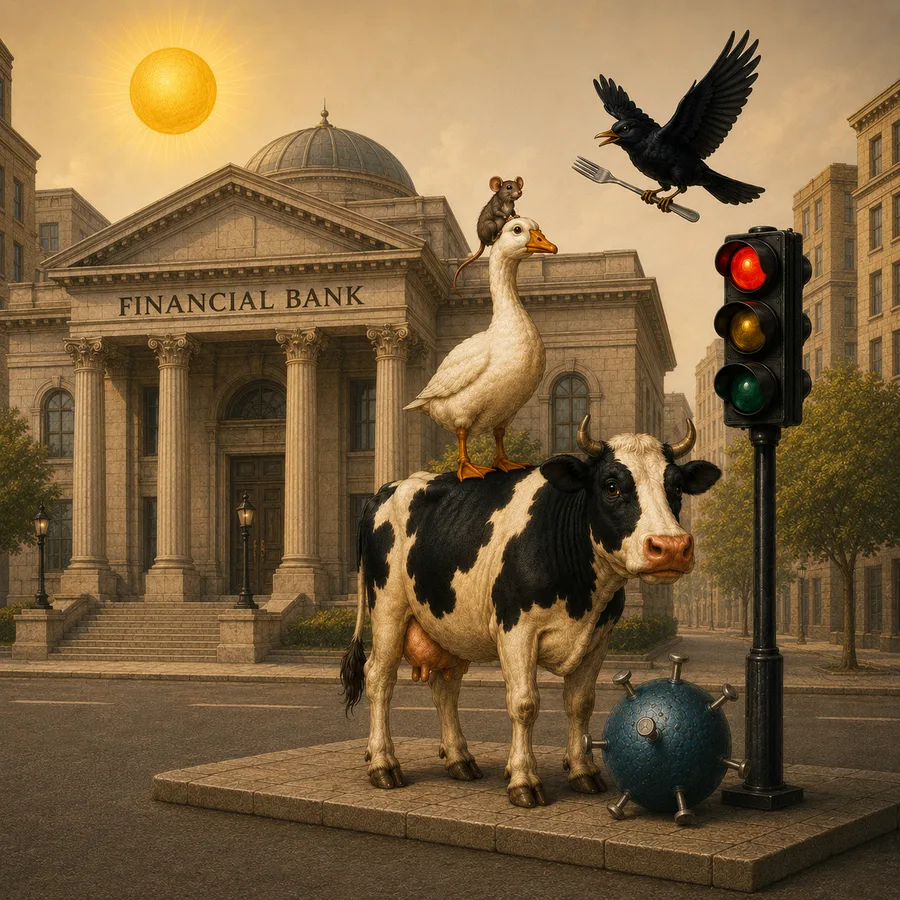
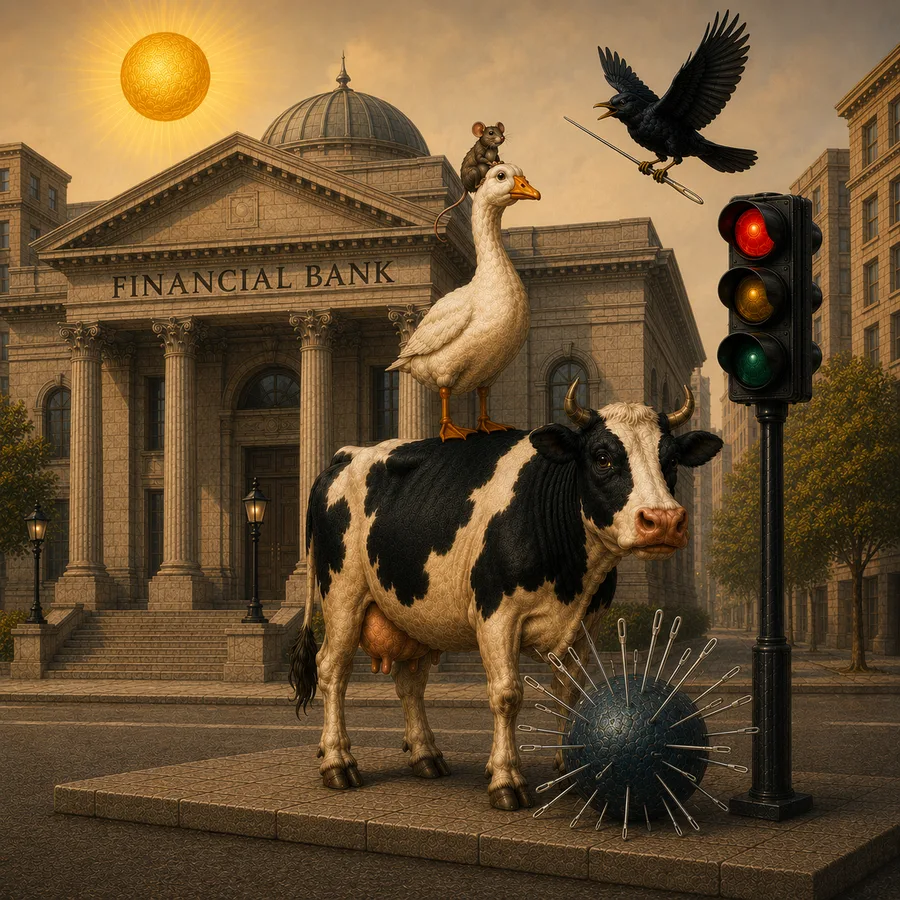
Ampel scene: drop das Geld from narrative, refresh image
Geld is a das word leaking into the all-die scene, so remove 'voller
Geld' — the financial meaning stays via the word gloss and the bank in
the image. Refresh the scene image to the latest master.

diff --git a/src/data/scenes.ts b/src/data/scenes.ts
@@ -397,9 +397,9 @@ export const MEMORY_SCENES: MemoryScene[] = [
     title: "An der Ampel",
     image: "/scenes/die-6-ampel.webp",
     narrativeDe:
-      "An der Ampel wartet eine Kuh. Die Ampel steht an einer Straße. Eine Gans sitzt auf der Kuh, und eine Maus sitzt auf der Gans. Hoch oben fliegt eine Amsel mit einer Gabel. Neben der Kuh liegt eine Kugel, gespickt mit vielen Nadeln, und die Sonne scheint. Am Rand der Straße steht eine Bank voller Geld.",
+      "An der Ampel wartet eine Kuh. Die Ampel steht an einer Straße. Eine Gans sitzt auf der Kuh, und eine Maus sitzt auf der Gans. Hoch oben fliegt eine Amsel mit einer Gabel. Neben der Kuh liegt eine Kugel, gespickt mit vielen Nadeln, und die Sonne scheint. Am Rand der Straße steht eine Bank.",
     narrativeEn:
-      "At the traffic light a cow waits. The traffic light stands on a street. A goose sits on the cow, and a mouse sits on the goose. High above a blackbird flies with a fork. Beside the cow lies a ball studded with many needles, and the sun shines. At the edge of the street stands a bank full of money.",
+      "At the traffic light a cow waits. The traffic light stands on a street. A goose sits on the cow, and a mouse sits on the goose. High above a blackbird flies with a fork. Beside the cow lies a ball studded with many needles, and the sun shines. At the edge of the street stands a bank.",
     words: [
       w("die", "Ampel", "traffic light"),
       w("die", "Straße", "street"),
